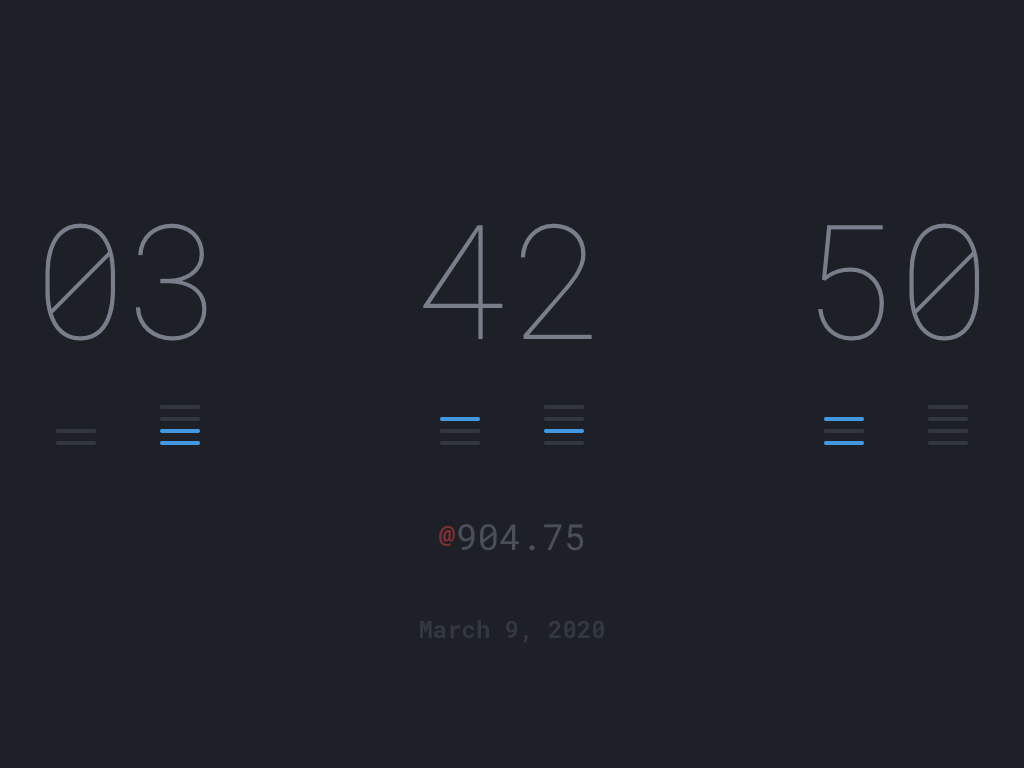
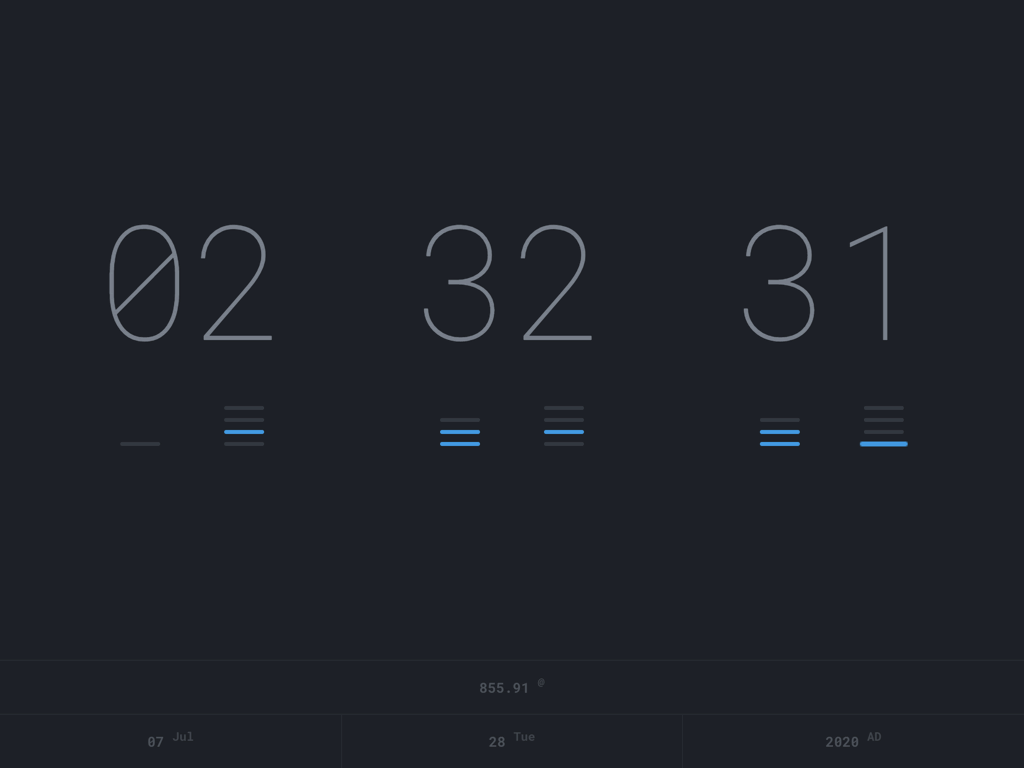
new layout

diff --git a/index.html b/index.html
@@ -8,63 +8,82 @@
   <link href="https://fonts.googleapis.com/css?family=Roboto+Mono:100,300,400,500,700" rel="stylesheet" />
   <link href="css/main.css" rel="stylesheet" />
 </head>
-<body class="lg:px-32 bg-gray-900 text-gray-600 font-mono text-center">
+<body class="bg-gray-900 text-gray-600 font-mono text-center">
 
-  <main class="w-full h-screen flex">
-    <section class="m-auto w-full">
-
-      <h1 class="time p-4 w-full text-5xl lg:text-10xl leading-none flex items-center justify-center">
-        <b class="hours lg:mx-8 max-w-xs flex-1 font-hairline"></b>
-        <b class="minutes lg:mx-8 max-w-xs flex-1 font-hairline"></b>
-        <b class="seconds lg:mx-8 max-w-xs flex-1 font-hairline"></b>
-      </h1>
-
-      <ul class="binary py-8 px-4 w-full flex justify-center">
-        <li class="lg:mx-8 max-w-xs flex-1 flex items-end justify-center">
-          <ul class="hour-1 mx-1 lg:mx-8 w-4 lg:w-10 flex flex-col">
-            <li class="tick hrs-1-1 w-full h-px lg:h-1 rounded transition duration-75"></li>
-          </ul>
-          <ul class="hour-2 mx-1 lg:mx-8 w-4 lg:w-10 flex flex-col">
-            <li class="tick hrs-2-8 mb-1 lg:mb-2 w-full h-px lg:h-1 rounded transition duration-75"></li>
-            <li class="tick hrs-2-4 mb-1 lg:mb-2 w-full h-px lg:h-1 rounded transition duration-75"></li>
-            <li class="tick hrs-2-2 mb-1 lg:mb-2 w-full h-px lg:h-1 rounded transition duration-75"></li>
-            <li class="tick hrs-2-1 w-full h-px lg:h-1 rounded transition duration-75"></li>
-          </ul>
+  <main class="w-full h-screen flex flex-col">
+    <section class="w-full h-full flex">
+      <div class="m-auto p-4 w-full">
+        <h1 class="time p-4 w-full text-5xl lg:text-10xl leading-none flex items-center justify-center">
+          <b class="hours lg:mx-8 max-w-xs flex-1 font-hairline"></b>
+          <b class="minutes lg:mx-8 max-w-xs flex-1 font-hairline"></b>
+          <b class="seconds lg:mx-8 max-w-xs flex-1 font-hairline"></b>
+        </h1>
+        <ul class="binary py-8 px-4 w-full flex justify-center">
+          <li class="lg:mx-8 max-w-xs flex-1 flex items-end justify-center">
+            <ul class="hour-1 mx-1 lg:mx-8 w-4 lg:w-10 flex flex-col">
+              <li class="tick hrs-1-1 w-full h-px lg:h-1 rounded transition duration-75"></li>
+            </ul>
+            <ul class="hour-2 mx-1 lg:mx-8 w-4 lg:w-10 flex flex-col">
+              <li class="tick hrs-2-8 mb-1 lg:mb-2 w-full h-px lg:h-1 rounded transition duration-75"></li>
+              <li class="tick hrs-2-4 mb-1 lg:mb-2 w-full h-px lg:h-1 rounded transition duration-75"></li>
+              <li class="tick hrs-2-2 mb-1 lg:mb-2 w-full h-px lg:h-1 rounded transition duration-75"></li>
+              <li class="tick hrs-2-1 w-full h-px lg:h-1 rounded transition duration-75"></li>
+            </ul>
+          </li>
+          <li class="lg:mx-8 max-w-xs flex-1 flex items-end justify-center">
+            <ul class="minute-1 mx-1 lg:mx-8 w-4 lg:w-10 flex flex-col">
+              <li class="tick min-1-4 mb-1 lg:mb-2 w-full h-px lg:h-1 rounded transition duration-75"></li>
+              <li class="tick min-1-2 mb-1 lg:mb-2 w-full h-px lg:h-1 rounded transition duration-75"></li>
+              <li class="tick min-1-1 w-full h-px lg:h-1 rounded transition duration-75"></li>
+            </ul>
+            <ul class="minute-2 mx-1 lg:mx-8 w-4 lg:w-10 flex flex-col">
+              <li class="tick min-2-8 mb-1 lg:mb-2 w-full h-px lg:h-1 rounded transition duration-75"></li>
+              <li class="tick min-2-4 mb-1 lg:mb-2 w-full h-px lg:h-1 rounded transition duration-75"></li>
+              <li class="tick min-2-2 mb-1 lg:mb-2 w-full h-px lg:h-1 rounded transition duration-75"></li>
+              <li class="tick min-2-1 w-full h-px lg:h-1 rounded transition duration-75"></li>
+            </ul>
+          </li>
+          <li class="lg:mx-8 max-w-xs flex-1 flex items-end justify-center">
+            <ul class="second-1 mx-1 lg:mx-8 w-4 lg:w-10 flex flex-col">
+              <li class="tick sec-1-4 mb-1 lg:mb-2 w-full h-px lg:h-1 rounded transition duration-75"></li>
+              <li class="tick sec-1-2 mb-1 lg:mb-2 w-full h-px lg:h-1 rounded transition duration-75"></li>
+              <li class="tick sec-1-1 w-full h-px lg:h-1 rounded transition duration-75"></li>
+            </ul>
+            <ul class="second-2 mx-1 lg:mx-8 w-4 lg:w-10 flex flex-col">
+              <li class="tick sec-2-8 mb-1 lg:mb-2 w-full h-px lg:h-1 rounded transition duration-75"></li>
+              <li class="tick sec-2-4 mb-1 lg:mb-2 w-full h-px lg:h-1 rounded transition duration-75"></li>
+              <li class="tick sec-2-2 mb-1 lg:mb-2 w-full h-px lg:h-1 rounded transition duration-75"></li>
+              <li class="tick sec-2-1 w-full h-px lg:h-1 rounded transition duration-75"></li>
+            </ul>
+          </li>
+        </ul>
+      </div>
+    </section>
+    <section>
+      <ul class="w-full border-t border-gray-800 xl:flex text-sm xl:text-xl font-bold opacity-50">
+        <li class="border-b xl:border-r border-gray-800 p-4 xl:p-8 xl:w-1/4 hover:text-white transition duration-75" title="Internet/Beat Time">
+          <div class="internet flex items-center justify-center">
+            <b class="beats">&nbsp;</b>
+            <sup class="ml-2 text-xs opacity-75">@</sup>
+          </div>
         </li>
-        <li class="lg:mx-8 max-w-xs flex-1 flex items-end justify-center">
-          <ul class="minute-1 mx-1 lg:mx-8 w-4 lg:w-10 flex flex-col">
-            <li class="tick min-1-4 mb-1 lg:mb-2 w-full h-px lg:h-1 rounded transition duration-75"></li>
-            <li class="tick min-1-2 mb-1 lg:mb-2 w-full h-px lg:h-1 rounded transition duration-75"></li>
-            <li class="tick min-1-1 w-full h-px lg:h-1 rounded transition duration-75"></li>
-          </ul>
-          <ul class="minute-2 mx-1 lg:mx-8 w-4 lg:w-10 flex flex-col">
-            <li class="tick min-2-8 mb-1 lg:mb-2 w-full h-px lg:h-1 rounded transition duration-75"></li>
-            <li class="tick min-2-4 mb-1 lg:mb-2 w-full h-px lg:h-1 rounded transition duration-75"></li>
-            <li class="tick min-2-2 mb-1 lg:mb-2 w-full h-px lg:h-1 rounded transition duration-75"></li>
-            <li class="tick min-2-1 w-full h-px lg:h-1 rounded transition duration-75"></li>
-          </ul>
-        </li>
-        <li class="lg:mx-8 max-w-xs flex-1 flex items-end justify-center">
-          <ul class="second-1 mx-1 lg:mx-8 w-4 lg:w-10 flex flex-col">
-            <li class="tick sec-1-4 mb-1 lg:mb-2 w-full h-px lg:h-1 rounded transition duration-75"></li>
-            <li class="tick sec-1-2 mb-1 lg:mb-2 w-full h-px lg:h-1 rounded transition duration-75"></li>
-            <li class="tick sec-1-1 w-full h-px lg:h-1 rounded transition duration-75"></li>
-          </ul>
-          <ul class="second-2 mx-1 lg:mx-8 w-4 lg:w-10 flex flex-col">
-            <li class="tick sec-2-8 mb-1 lg:mb-2 w-full h-px lg:h-1 rounded transition duration-75"></li>
-            <li class="tick sec-2-4 mb-1 lg:mb-2 w-full h-px lg:h-1 rounded transition duration-75"></li>
-            <li class="tick sec-2-2 mb-1 lg:mb-2 w-full h-px lg:h-1 rounded transition duration-75"></li>
-            <li class="tick sec-2-1 w-full h-px lg:h-1 rounded transition duration-75"></li>
+        <li class="flex-1">
+          <ul class="date flex">
+            <li class="border-r border-gray-800 p-4 xl:p-8 flex-1 flex items-center justify-center hover:text-white transition duration-75" title="Month">
+              <b class="date-m">&nbsp;</b>
+              <sup class="date-mm ml-2 text-xs opacity-75">&nbsp;</sup>
+            </li>
+            <li class="border-r border-gray-800 p-4 xl:p-8 flex-1 flex items-center justify-center hover:text-white transition duration-75" title="Day">
+              <b class="date-d">&nbsp;</b>
+              <sup class="date-dd ml-2 text-xs opacity-75">&nbsp;</sup>
+            </li>
+            <li class="p-4 xl:p-8 flex-1 flex items-center justify-center hover:text-white transition duration-75" title="Year">
+              <b class="date-y">&nbsp;</b>
+              <sup class="date-yy ml-2 text-xs opacity-75">AD</sup>
+            </li>
           </ul>
         </li>
       </ul>
-
-      <h2 class="internet py-8 px-4 md:text-4xl flex items-center justify-center opacity-50 hover:opacity-100 transition duration-75" title="Internet/Beat Time">
-        <small class="text-red-600 font-black">@</small><b class="beats font-normal">&nbsp;</b>
-      </h2>
-
-      <h3 class="date p-4 md:text-2xl font-black opacity-25 hover:opacity-75 transition duration-75">&nbsp;</h3>
-
     </section>
   </main>
 

diff --git a/js/main.js b/js/main.js
@@ -10,13 +10,16 @@ function now(){
   var seconds = date.getSeconds();
   var beatHours = (date.getUTCHours() == 23) ? 0 : date.getUTCHours() + 1;
   var beats = Math.abs(((((beatHours * 60) + date.getUTCMinutes()) * 60) + date.getUTCSeconds()) / 86.4).toFixed(2);
-  var today = date.toLocaleDateString("en-US", {year: 'numeric', month: 'long', day: 'numeric'});
 
   $('.hours').forEach(function(item){item.innerHTML = pad(hours)});
   $('.minutes').forEach(function(item){item.innerHTML = pad(minutes)});
   $('.seconds').forEach(function(item){item.innerHTML = pad(seconds)});
   $('.beats').forEach(function(item){item.innerHTML = beats});
-  $('.date').forEach(function(item){item.innerHTML = today});
+  $('.date-m').forEach(function(item){item.innerHTML = date.toLocaleDateString("en-US", {month: '2-digit'})});
+  $('.date-mm').forEach(function(item){item.innerHTML = date.toLocaleDateString("en-US", {month: 'short'})});
+  $('.date-d').forEach(function(item){item.innerHTML = date.toLocaleDateString("en-US", {day: '2-digit'})});
+  $('.date-dd').forEach(function(item){item.innerHTML = date.toLocaleDateString("en-US", {weekday: 'short'})});
+  $('.date-y').forEach(function(item){item.innerHTML = date.toLocaleDateString("en-US", {year: 'numeric'})});
 
   // binary
   var sec2 = seconds % 10;
